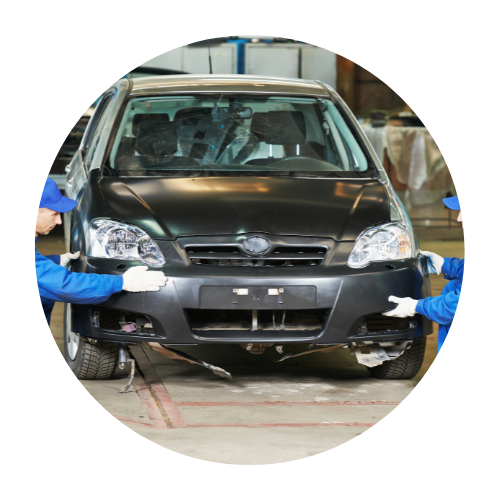
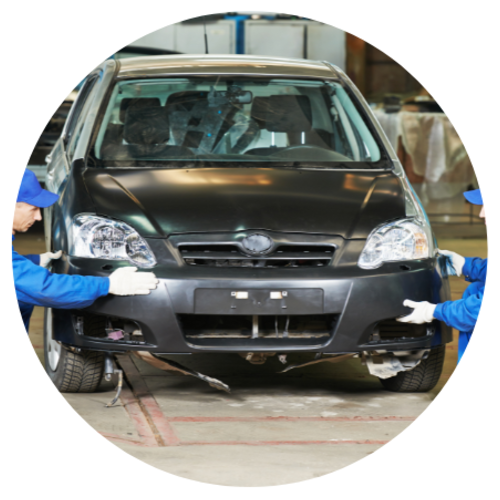
Normalize photo crop fill and drop redundant "Explore other services" link
5 of the 6 downloaded service photos had ~28px of transparent margin baked
into the 500x500 source PNG around the circular crop, while the painting
photo filled edge-to-edge — so those 5 displayed visibly smaller/inset
inside the same gradient ring frame. Trimmed and rescaled all 5 to match
painting's fill ratio (ImageMagick trim + resize + centered extent) so
every subpage photo now fills its ring consistently.

Also removed "Explore other services" entirely — it duplicated "All
services," which already returns to the same hub page. Cleaned up the now
-unused exploreLabel prop/translation keys.

diff --git a/src/app/App.tsx b/src/app/App.tsx
@@ -68,7 +68,6 @@ const STRINGS = {
       cta: "Get an estimate",
       callUs: "Or call us: +372 58-100-810",
       backToServices: "← All services",
-      exploreMore: "Explore other services",
       seoTitle: "How car painting works at Mpaint",
       seoP1: "Every repaint starts with an assessment of the damage and a read of your car's factory colour code. We prepare and sand the panel, apply primer, then spray base coat and lacquer inside a dedicated paint booth where filtered air and controlled temperature keep dust out of the finish.",
       seoP2: "We paint single panels as well as full cars. Painting one door, bumper or wing is usually enough after a parking scrape, while corrosion or accident damage across several panels is better handled as a larger job. If the paint on your car has faded unevenly, we blend into the neighbouring panels so the repair does not stand out.",
@@ -194,7 +193,6 @@ const STRINGS = {
       cta: "Küsi hinnapakkumist",
       callUs: "Või helista meile: +372 58-100-810",
       backToServices: "← Kõik teenused",
-      exploreMore: "Vaata teisi teenuseid",
       seoTitle: "Kuidas autovärvimine Mpaintis käib",
       seoP1: "Iga värvimistöö algab kahjustuse hindamisest ja auto tehase värvikoodi lugemisest. Valmistame paneeli ette ja lihvime selle, kanname peale grundi ning seejärel pihustame põhi- ja lakikihi spetsiaalses värvikambris, kus filtreeritud õhk ja kontrollitud temperatuur hoiavad tolmu pinnast eemal.",
       seoP2: "Värvime nii üksikuid paneele kui ka terveid autosid. Ühe ukse, pumperi või tiiva värvimisest piisab tavaliselt pärast parklakriimu, samas kui korrosioon või avariikahjustus mitmel paneelil sobib paremini suurema tööna teostada. Kui auto värv on ebaühtlaselt pleekinud, sobitame selle naaberpaneelidega, et remont ei paistaks silma.",
@@ -320,7 +318,6 @@ const STRINGS = {
       cta: "Получить смету",
       callUs: "Или позвоните нам: +372 58-100-810",
       backToServices: "← Все услуги",
-      exploreMore: "Другие услуги",
       seoTitle: "Как проходит покраска автомобиля в Mpaint",
       seoP1: "Каждая покраска начинается с оценки повреждения и считывания заводского кода цвета вашего автомобиля. Мы готовим и шлифуем панель, наносим грунт, затем распыляем базовое покрытие и лак в специальной покрасочной камере, где фильтрованный воздух и контролируемая температура не дают пыли попасть в покрытие.",
       seoP2: "Мы красим как отдельные панели, так и целые автомобили. Покраски одной двери, бампера или крыла обычно достаточно после царапины на парковке, тогда как коррозия или аварийные повреждения на нескольких панелях лучше решать как более крупную работу. Если краска на вашем автомобиле выцвела неравномерно, мы делаем плавный переход на соседние панели, чтобы ремонт не бросался в глаза.",
@@ -751,7 +748,6 @@ export default function App() {
                 lang={lang}
                 ctaLabel={t.services.pick}
                 backLabel={t.services.backToServices}
-                exploreLabel={t.services.exploreMore}
                 onGetEstimate={openQuote}
               />
             }

diff --git a/src/imports/styles.css b/src/imports/styles.css
@@ -496,8 +496,7 @@ h3{font-size:clamp(1rem,2vw,1.5rem);font-weight:600;line-height:1.2;letter-spaci
 /* ---------------- SERVICE SUBPAGES (one-viewport pitch + checklist) ----------------
    grid-template-areas drives a different visual order per breakpoint (title/photo/
    desc/cta stay separate grid items) without needing separate DOM per breakpoint. */
-.svc-page-nav{display:flex;flex-direction:column;align-items:center;gap:var(--sp-4);margin-bottom:var(--sp-12)}
-.svc-page-nav .link{margin:0;cursor:pointer}
+.svc-page-back{display:block;width:fit-content;margin:0 auto var(--sp-12);cursor:pointer}
 .svc-page-layout{display:grid;grid-template-columns:1fr;
   grid-template-areas:"title" "photo" "desc" "cta";
   justify-items:center;text-align:center;gap:var(--sp-12)}
@@ -518,7 +517,7 @@ h3{font-size:clamp(1rem,2vw,1.5rem);font-weight:600;line-height:1.2;letter-spaci
 .svc-page-actions .btn{width:auto}
 
 @media(min-width:820px){
-  .svc-page-nav{flex-direction:row;justify-content:space-between;margin-bottom:var(--sp-16)}
+  .svc-page-back{margin:0 0 var(--sp-16)}
   .svc-page-layout{grid-template-columns:384px 1fr;
     grid-template-areas:"photo title" "photo desc" "photo cta";
     align-items:center;column-gap:var(--sp-48);row-gap:var(--sp-16)}

diff --git a/src/app/pages/ServicePage.tsx b/src/app/pages/ServicePage.tsx
@@ -6,12 +6,11 @@ function Icon({ id }: { id: string }) {
 }
 
 export default function ServicePage({
-  lang, ctaLabel, backLabel, exploreLabel, onGetEstimate,
+  lang, ctaLabel, backLabel, onGetEstimate,
 }: {
   lang: Lang
   ctaLabel: string
   backLabel: string
-  exploreLabel: string
   onGetEstimate: (id: ServiceId) => void
 }) {
   const { slug } = useParams<{ slug: string }>()
@@ -33,14 +32,9 @@ export default function ServicePage({
         }}
       >
         <div className="container" style={{ maxWidth: 900 }}>
-          <div className="svc-page-nav">
-            <Link to="/services" className="link svc-page-back">
-              {backLabel}
-            </Link>
-            <Link to="/services" className="link svc-page-explore">
-              {exploreLabel}
-            </Link>
-          </div>
+          <Link to="/services" className="link svc-page-back">
+            {backLabel}
+          </Link>
           <div className="svc-page-layout">
             <h1 className="svc-page-title">{svc.h1}</h1>
             <div className="svc-page-photo">
